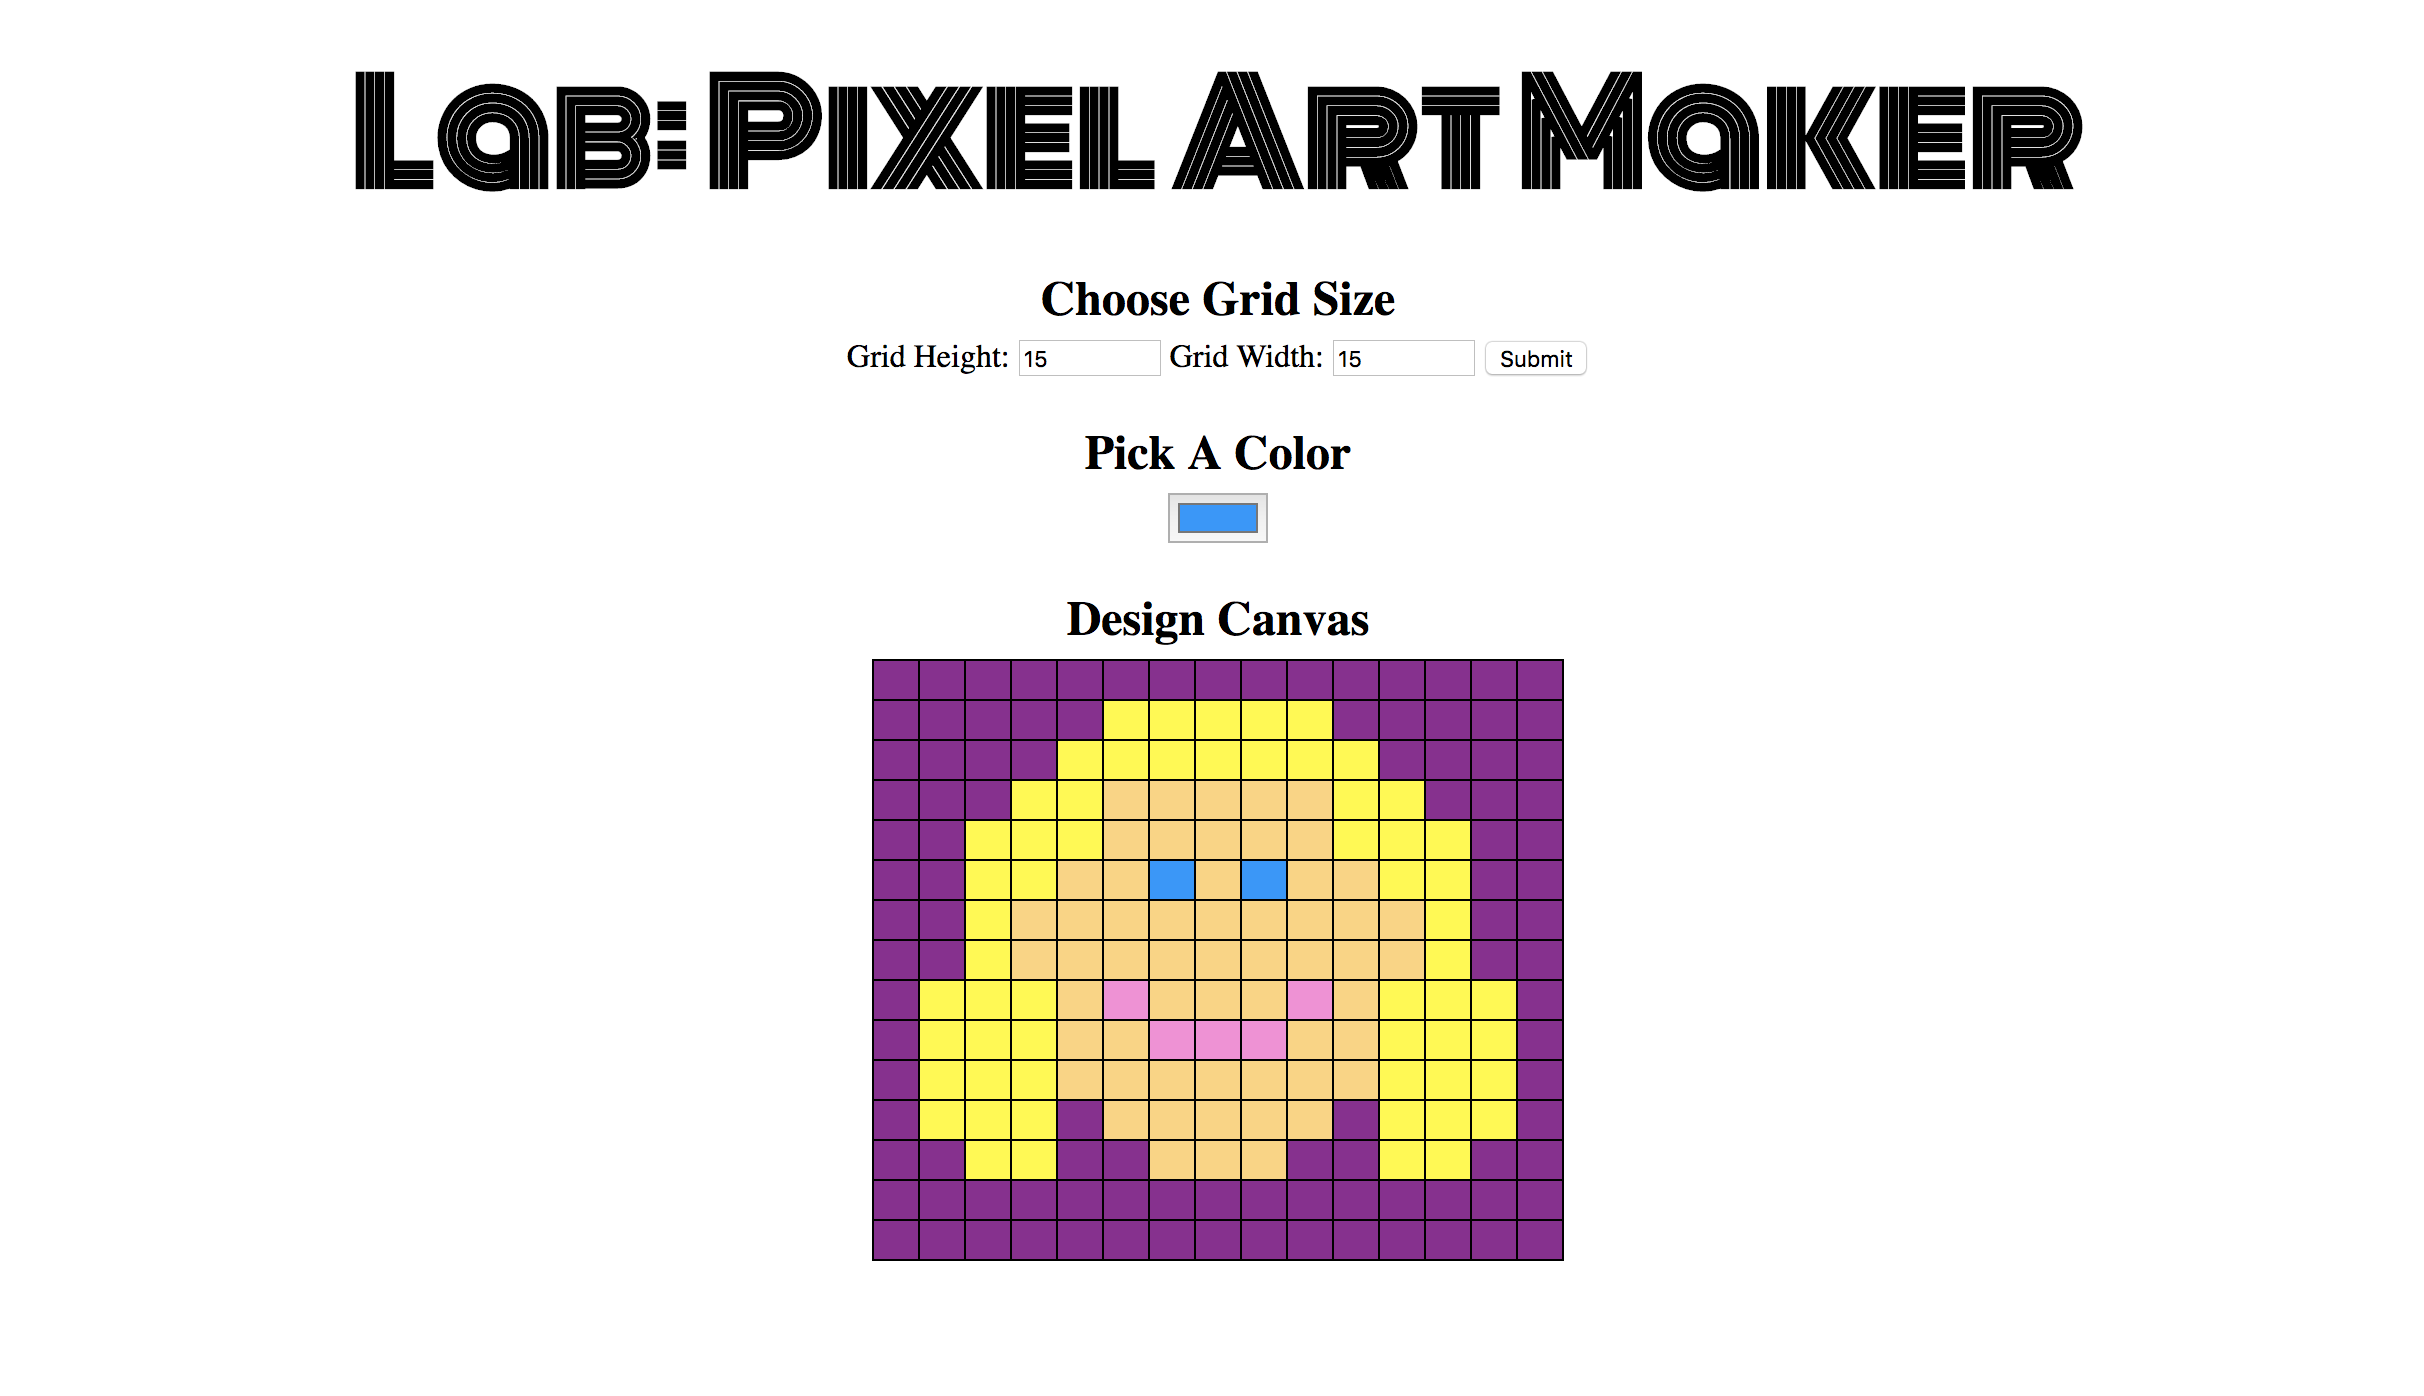
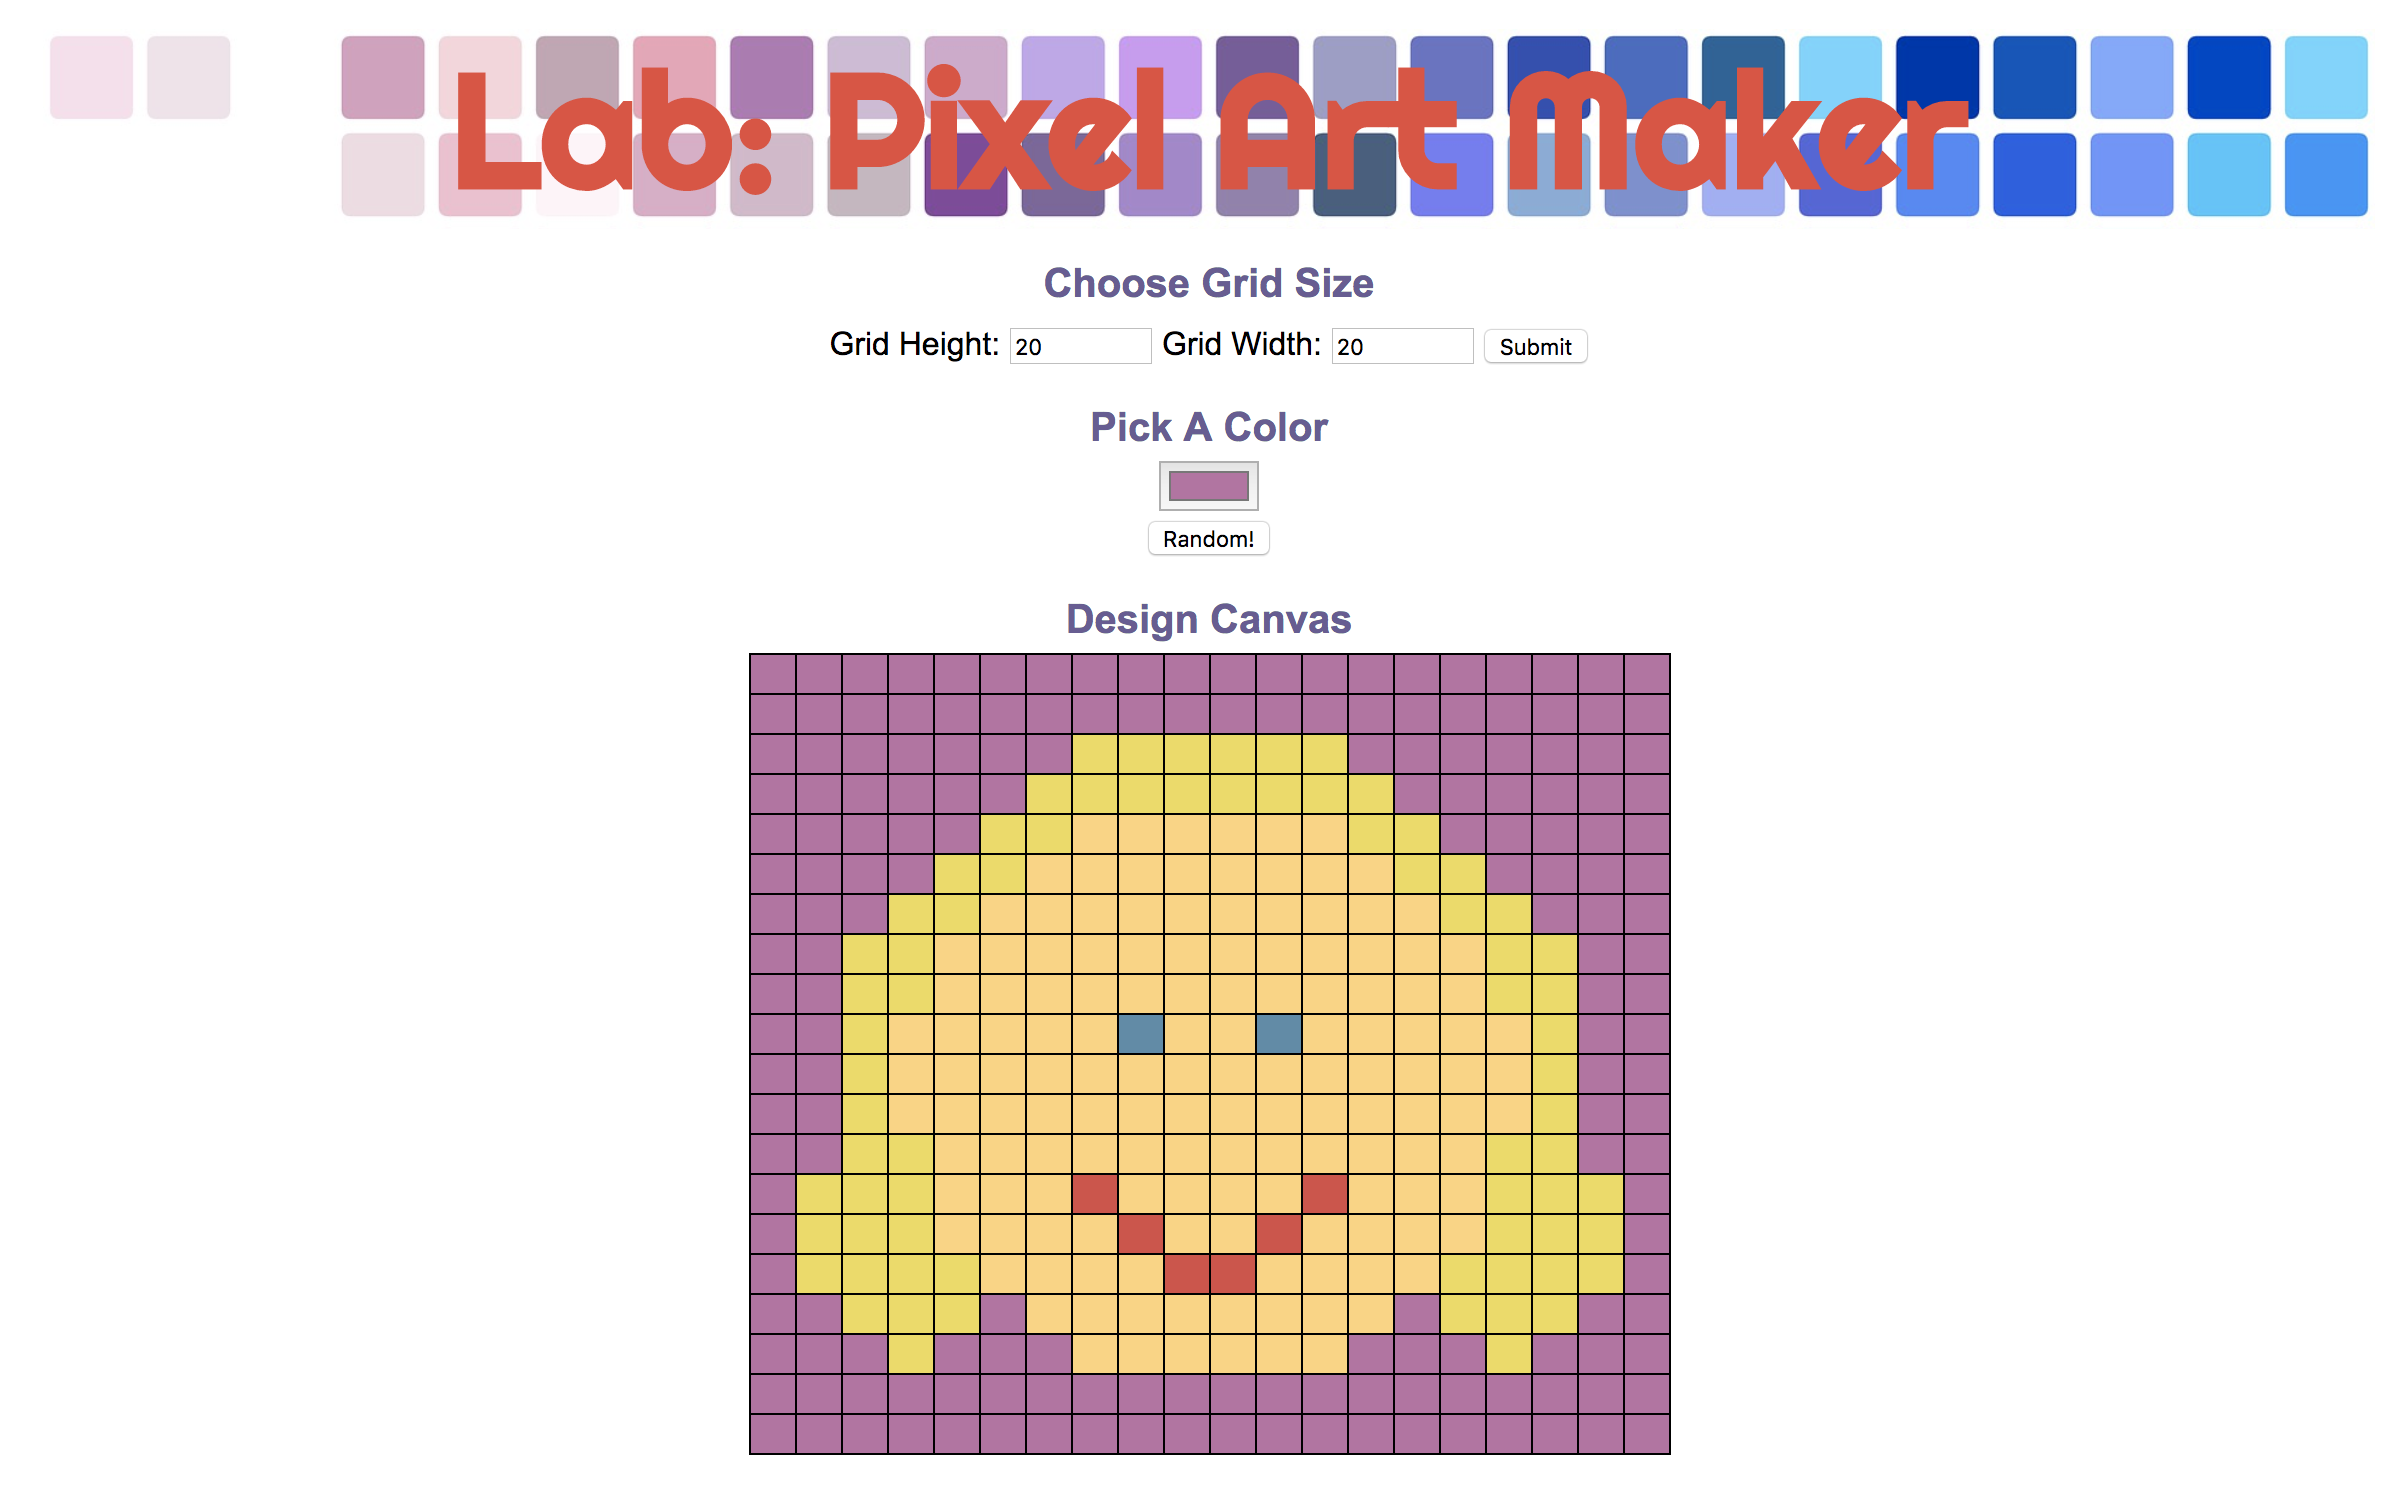
Styled Pixel Art Maker

diff --git a/project-pixel-art-maker-starter-master/js/designs.js b/project-pixel-art-maker-starter-master/js/designs.js
@@ -3,15 +3,24 @@ Sets variables for all required dom elements
 */
 let canvas = $('#pixelCanvas');
 let colorPicker = $('#colorPicker');
+let randomButton = $( 'button, input[type="button"]' );
 let inputHeight = $('#inputHeight');
 let inputWidth = $('#inputWeight');
-let submitButton = $( 'button, input[type="submit"]' );
+let submitButton = $('input[type="submit"]');
 
 
 /**
 Sets all required global variables
 */
 let color = '#000000';
+let colors = ['#6b5b95', '#ecdb54', '#e94b3c', '#6f9fd8', '#944743',
+              '#dbb1cd', '#ec9787', '#00a591', '#6b5b95', '#6c4f3d',
+              '#eadedb', '#bc70a4', '#bfd641', '#2e4a62', '#b4b7ba',
+              '#c0ab8e', '#f0ede5', '#92b558', '#dc4c46', '#672e3b',
+              '#f3d6e4', '#c48f65', '#223a5e', '#898e8c', '#005960',
+              '#9c9a40', '#4f84c4', '#d2691e', '#578ca9', '#f6d155',
+              '#004b8d', '#f2552c', '#95dee3', '#edcdc2', '#ce3127',
+              '#5a7247', '#cfb095', '#4c6a92', '#92bbd5', '#838487']
 
 
 /**
@@ -64,4 +73,15 @@ colorPicker.change(function(){
 */
 canvas.on('click', 'td', function(){
     $(this).css('background-color', color);
+});
+
+/**
+* @description Allows a user to choose a color at random
+*/
+randomButton.click(function(){
+    // pick a random color from the colors array
+    let randomNumber = Math.floor((Math.random() * (colors.length)));
+    color = colors[randomNumber];
+    // change the color of the color picker
+    colorPicker.val(color);
 });

diff --git a/project-pixel-art-maker-starter-master/css/styles.css b/project-pixel-art-maker-starter-master/css/styles.css
@@ -1,20 +1,37 @@
+/* UNIVERSAL */
+
 body {
     text-align: center;
+    font-family: 'Arial';
 }
 
+/* BACKGROUND */
+
 h1 {
-    font-family: Monoton;
-    font-size: 70px;
+    background-image: url(../img/square-2724387_1920.jpg);
+    background-size: 100%;
+}
+
+/* FONTS */
+
+h1 {
+    font-family: 'Righteous';
+    font-size: 5em;
     margin: 0.2em;
+    color: #e94b3c;
 }
 
 h2 {
+    font-size: 1.25em;
     margin: 1em 0 0.25em;
+    color: #6B5B95;
 }
 
 h2:first-of-type {
     margin-top: 0.5em;
 }
+
+/* CANVAS */
 
 table,
 tr,
@@ -35,6 +52,17 @@ td {
     width: 20px;
 }
 
+/* CONTROLS */
+
+form {
+    margin-top: 10px;
+}
+
 input[type=number] {
     width: 6em;
+}
+
+button {
+    display: block;
+    margin: 5px auto;
 }

diff --git a/project-pixel-art-maker-starter-master/index.html b/project-pixel-art-maker-starter-master/index.html
@@ -2,7 +2,7 @@
 <html>
 <head>
     <title>Pixel Art Maker!</title>
-    <link rel="stylesheet" href="https://fonts.googleapis.com/css?family=Monoton">
+    <link href="https://fonts.googleapis.com/css?family=Righteous" rel="stylesheet">
     <link rel="stylesheet" href="css/styles.css">
 </head>
 <body>
@@ -19,6 +19,7 @@
 
     <h2>Pick A Color</h2>
     <input type="color" id="colorPicker">
+    <button type="button">Random!</button>
 
     <h2>Design Canvas</h2>
     <table id="pixelCanvas"></table>
